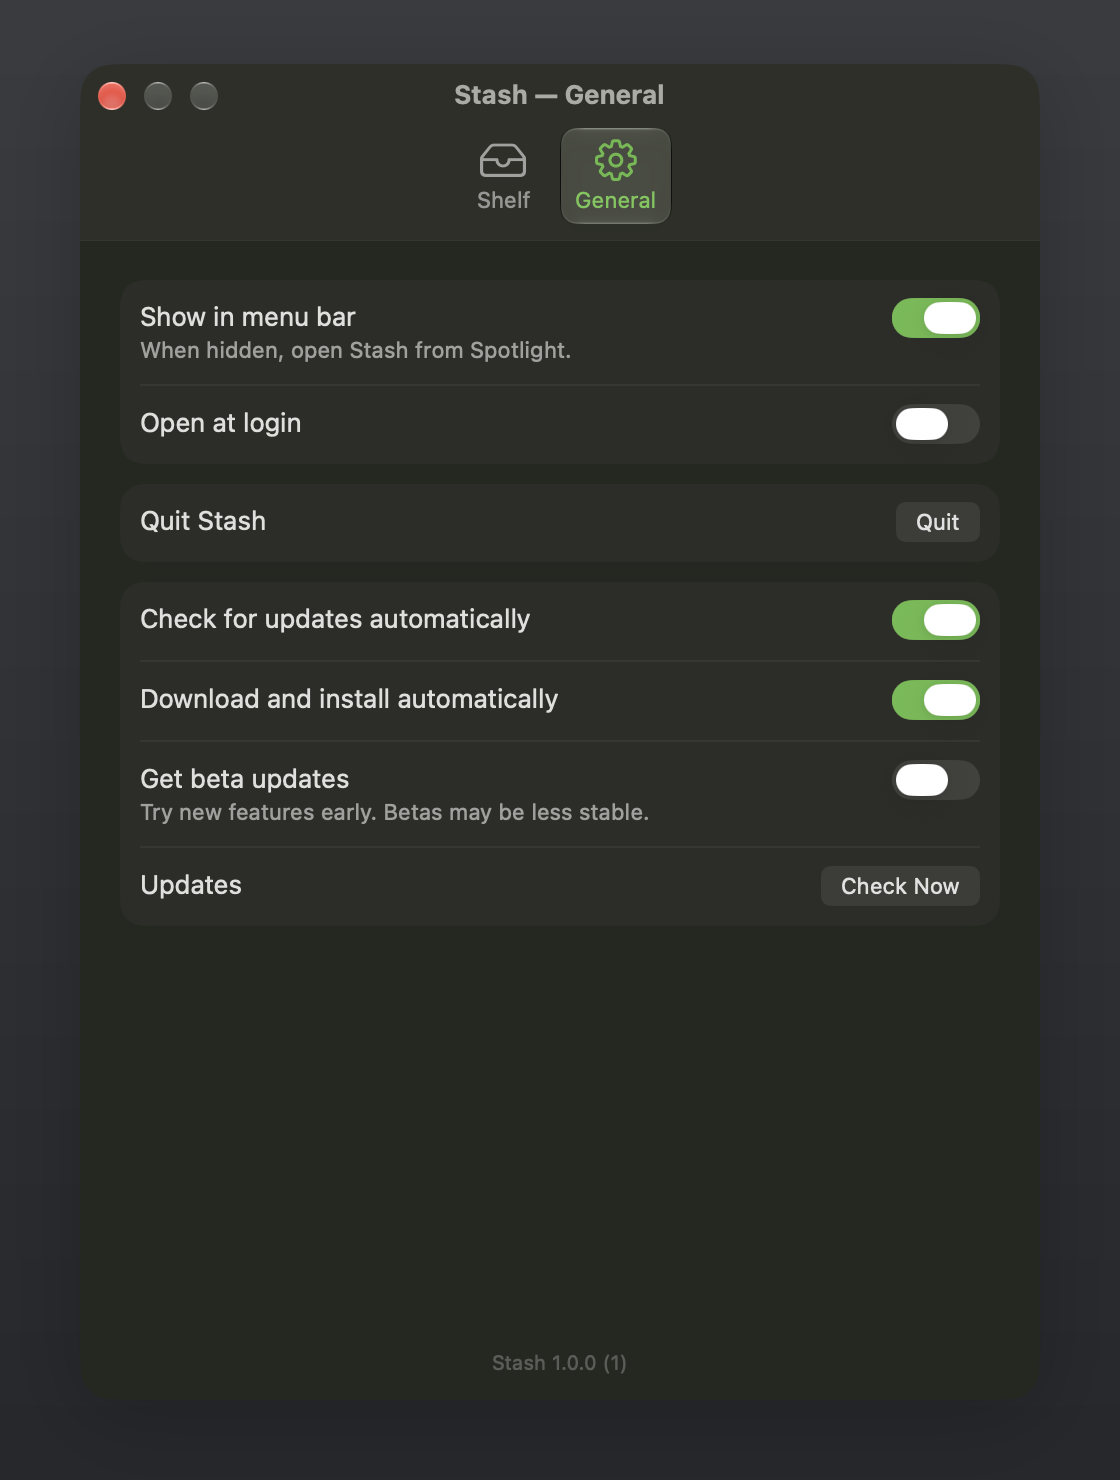
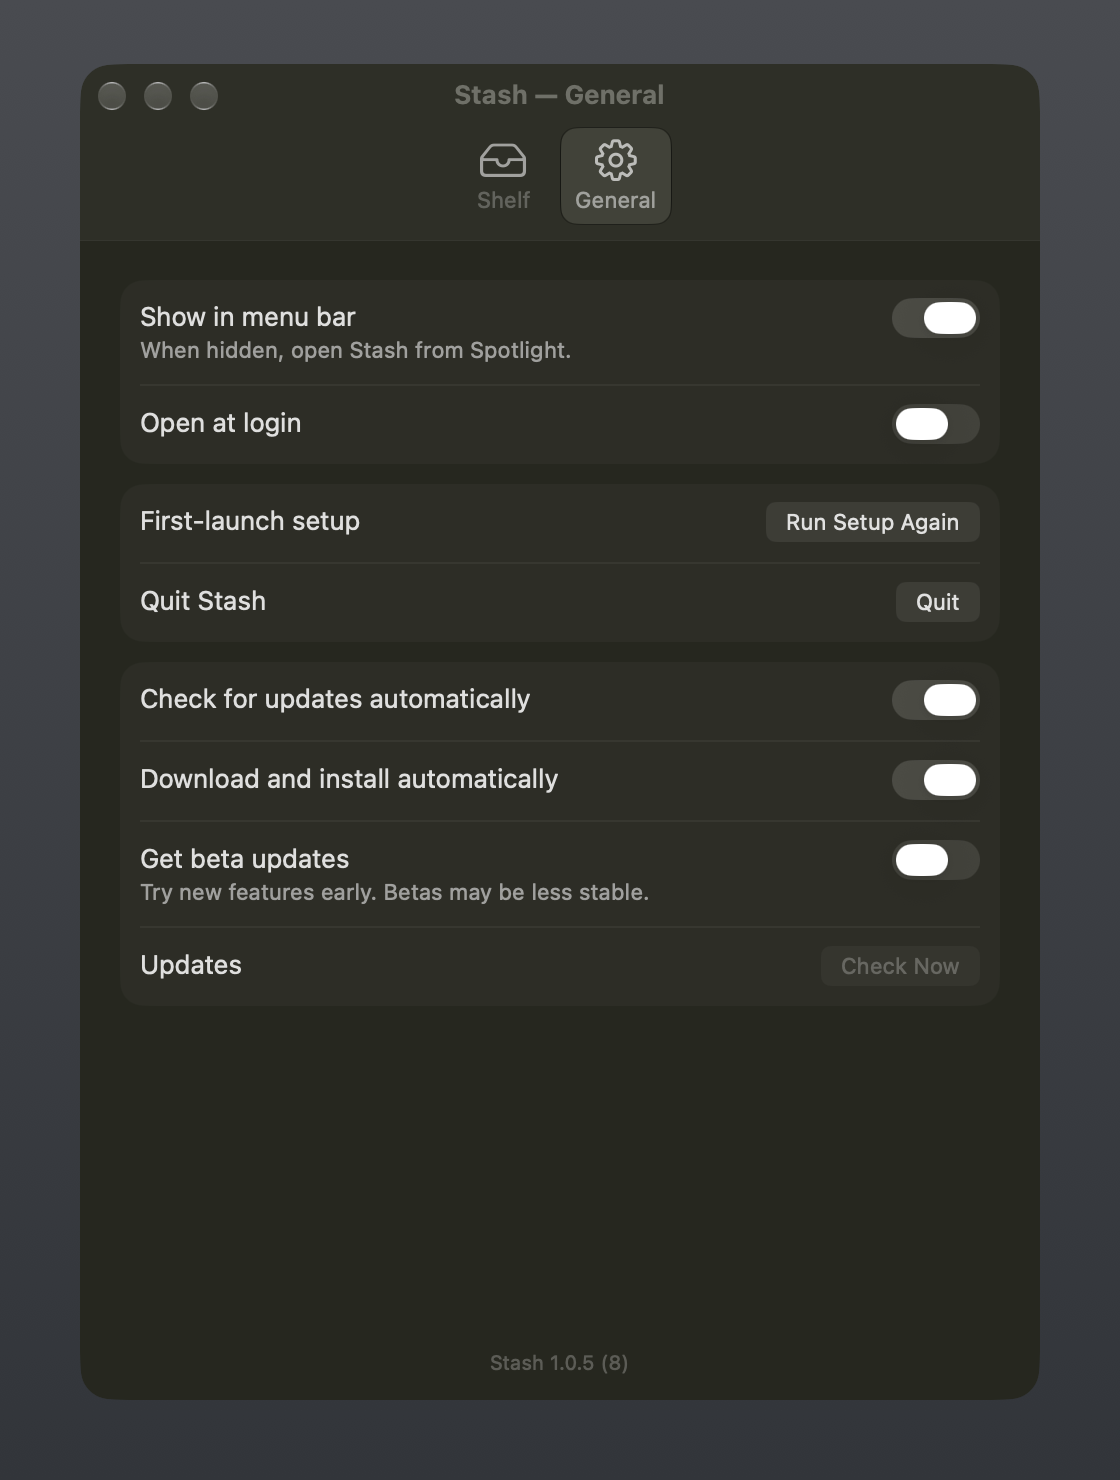
Version 1.0.5

diff --git a/Sources/main.swift b/Sources/main.swift
@@ -89,6 +89,7 @@ final class Controller: NSObject, NSApplicationDelegate, NSMenuDelegate {
         ShelfModel.cleanLeftovers()
         Updates.shared.start()
         settings.model.onChange = { [weak self] in self?.apply() }
+        settings.model.runSetup = { [weak self] in self?.openSetup() }
         shelves.autoClose = { Config.current.autoClose }
         shelves.startExpanded = { Config.current.openExpanded }
         shelves.startLocked = { Config.current.startLocked }
@@ -109,7 +110,7 @@ final class Controller: NSObject, NSApplicationDelegate, NSMenuDelegate {
             guard let self, !self.gotFiles, !self.launchedAtLogin, !args.contains("--background"),
                   !args.contains("--new-shelf") else { return }
             if StashSetup.shouldOfferSetup(fresh: self.fresh, background: false, gotFiles: self.gotFiles) {
-                self.setup.onFinish = { [weak self] in self?.apply() }
+                self.setup.onFinish = { [weak self] in self?.setupFinished() }
                 self.setup.show()
             } else {
                 self.settings.show()
@@ -186,8 +187,14 @@ final class Controller: NSObject, NSApplicationDelegate, NSMenuDelegate {
     @objc private func closeAllShelves(_ sender: Any? = nil) { shelves.closeAll() }
     @objc private func openSettings(_ sender: Any? = nil) { settings.show() }
     @objc private func openSetup(_ sender: Any? = nil) {
-        setup.onFinish = { [weak self] in self?.apply() }
+        setup.onFinish = { [weak self] in self?.setupFinished() }
         setup.show()
+    }
+
+    private func setupFinished() {
+        apply()
+        let fresh = Config.load()
+        if settings.model.cfg != fresh { settings.model.cfg = fresh }
     }
     @objc private func checkUpdates(_ sender: Any? = nil) { Updates.shared.checkNow() }
 

diff --git a/Sources/Setup.swift b/Sources/Setup.swift
@@ -2,6 +2,15 @@ import AppKit
 import SwiftUI
 
 enum StashSetup {
+    static func merge(changes: Config, since start: Config, into current: Config) -> Config {
+        var out = current
+        if changes.hotkey != start.hotkey { out.hotkey = changes.hotkey }
+        if changes.shake != start.shake { out.shake = changes.shake }
+        if changes.sensitivity != start.sensitivity { out.sensitivity = changes.sensitivity }
+        if changes.keepEmpty != start.keepEmpty { out.keepEmpty = changes.keepEmpty }
+        return out
+    }
+
     static func shouldOfferSetup(fresh: Bool, background: Bool, gotFiles: Bool) -> Bool {
         fresh && !background && !gotFiles
     }
@@ -18,13 +27,16 @@ final class SetupModel: ObservableObject {
     @Published var frames = SetupFrames()
     let preview = ShelfPreviewDriver()
     var save: (Config) -> Void = { Config.save($0) }
+    var load: () -> Config = { Config.load() }
     var onFinish: () -> Void = {}
+    private var start = Config()
 
     static let count = Step.allCases.count
 
     var current: Step { Step(rawValue: step) ?? .welcome }
 
     func reset(_ start: Config) {
+        self.start = start
         cfg = start
         step = 0
         forward = true
@@ -63,7 +75,7 @@ final class SetupModel: ObservableObject {
 
     func finish() {
         preview.stop()
-        save(cfg)
+        save(StashSetup.merge(changes: cfg, since: start, into: load()))
         celebrating = true
         onFinish()
     }

diff --git a/Sources/Settings.swift b/Sources/Settings.swift
@@ -7,6 +7,7 @@ import SwiftUI
 final class SettingsModel: ObservableObject {
     @Published var cfg = Config.load()
     var onChange: () -> Void = {}
+    var runSetup: () -> Void = {}
     private var saver: AnyCancellable?
 
     init() {
@@ -414,6 +415,10 @@ struct SettingsView: View {
                 Toggle("Open at login", isOn: $m.cfg.launchAtLogin)
             }
             Section {
+                LabeledContent("First-launch setup") {
+                    Button("Run Setup Again") { m.runSetup() }
+                        .help("Open first-launch setup. Your current settings are kept.")
+                }
                 LabeledContent("Quit \(Identity.appName)") {
                     Button("Quit") { NSApp.terminate(nil) }
                 }

diff --git a/README.md b/README.md
@@ -53,7 +53,9 @@ go find where they need to go, then drag them out again — all at once or one b
 3. Open Stash from Applications and use **Open Anyway** as above.
 4. **First launch:** a short setup shows how to open a shelf (shake while dragging, or the hotkey) and lets you pick
    your hotkey and shake sensitivity — with a little confetti at the end.
-   Run it again any time from the menu: **Set Up Stash…**
+   Skipped it? Everything from setup is also in Settings → Shelf (hotkey, shake, sensitivity, keep empty
+   shelves). Run it again with **Run Setup Again** in Settings → General or **Set Up Stash…** in the
+   menu — your current settings are kept.
 
 <p align="center">
   <img src="docs/screenshots/setup-welcome.png" width="220" alt="Setup: welcome">
